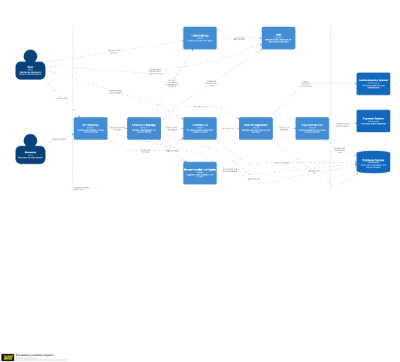
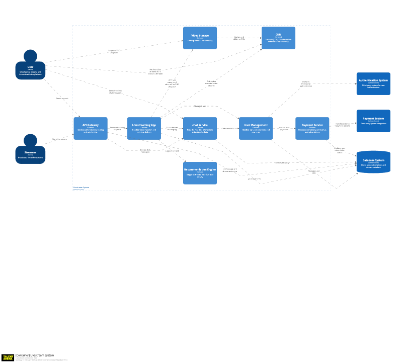
docs: ADRs and system documentation

diff --git a/workspace/docs/0002 - quality-attributes.md b/workspace/docs/0002 - quality-attributes.md
@@ -1,30 +1,10 @@
 ## System Quality attributes
 [List of system quality attributes](https://en.wikipedia.org/wiki/List_of_system_quality_attributes)
 
-### Scalability
-The system must handle varying loads, especially 'burst' traffic during conferences. This includes the ability to scale resources up or down as needed to accommodate the number of attendees and speakers accessing the system simultaneously.
-
-### Performance
-The system should provide quick response times and handle requests efficiently, especially important during peak usage times. This includes fast loading of schedules, smooth handling of talk submissions, and efficient processing of attendee votes.
-
-### Availability
-High availability is crucial, particularly during the conference. The system should be operational and accessible with minimal downtime.
-
-### Reliability
-The system should function correctly and provide consistent results. This includes accurate scheduling information, reliable voting mechanisms, and dependable notifications for schedule changes.
-
-### Usability
-The system must be user-friendly for attendees, speakers, sponsors, and event staff. This includes intuitive navigation, clear interfaces for talk submissions, voting, and schedule viewing.
-
-### Security
-Given that the system handles personal information of attendees and speakers, robust security measures are essential to protect against unauthorized access and data breaches. This includes securing sensitive data like contact information and talk content.
-
-### Flexibility and Customizability
-The system should allow for easy branding and customization for different conferences. This includes the ability to change themes, layouts, and branding elements for each event.
-
-### Maintainability
-The system should be easy to maintain and update, allowing for quick fixes, updates, and the addition of new features without significant downtime or disruption.
-
-### Interoperability
-Given the integration with third-party systems (like the CFP and CRM systems), the system must effectively interact and integrate with these external systems.
-
+* Low-latency streaming (Live interactions need to be <2 s delay)
+* **Scalability** (Millions of concurrent viewers for popular streams)
+* **Consistency and availability** trade-offs (Eventual consistency for chat, strong consistency for payments)
+* **Resiliency**, Fault tolerance & failover mechanisms (Avoid service disruption)
+* Efficient video encoding & delivery (Adaptive bitrate streaming)
+* Real-time messaging (Chat system with Web Sockets)
+* High-throughput reads (stream views) and writes (chat, live comments)

diff --git a/workspace/docs/0001 - requirements.md b/workspace/docs/0001 - requirements.md
@@ -1,21 +1,28 @@
 ## Requirements
-Conference organizer needs a management system for the conferences he runs for both speakers and attendees
+**Twitch** is a live-streaming platform that allows users to:
+* Stream content (primarily gaming, IRL, music, etc.)
+* Watch live streams with real-time chat
+* Follow and subscribe to streamers
+* Monetize through ads, donations, and subscriptions
+* Store VoDs (Video On Demand) for replay
 
 ### Users
 Hundreds of speakers, dozens of event staff, thousands of attendees
 
 ### Requirements
-* attendees can access speaking schedule online, including room assignments
-* speakers can manage talks (enter, edit, modify)
-* attendees 'vote up/down' talks
-* organizer can notify attendees of schedule changes up-to-the-minute (if attendees opt in)
-* each conference (being a different subject) can be branded independently
-* speaker slides are accessible online only to attendees
-* evaluation system via web page, email, SMS, or phone
+* Users should be able to watch live streams
+* Streamers should be able to start live broadcasts
+* Users should be able to chat in real-time
+* Users should be able to follow and subscribe to streamers
+* Monetization options for streamers
+* VoD storage and playback
 
 ### Additional Context
 
-* Conference runs across the Europe.
-* Small support staff.
-* 'Burst' traffic: extremely busy when the conference is occurring.
-* Conference organizer wants to easily 'skin' the site for different technology offerings.
+* **Live Streaming Service**: Handles video ingestion and real-time delivery
+* **Content Delivery Network (CDN)**: Distributes live video streams efficiently
+* **Chat Service**: Provides real-time interactions using Web Sockets
+* **User Management & Authentication**: Handles login, subscriptions, and payments
+* **Payments Service**: Processes donations, ad revenue, and subscriptions
+* **Video Storage & VoD Service**: Stores past streams for replay
+* **Recommendation Engine**: Suggests streams based on user activity
